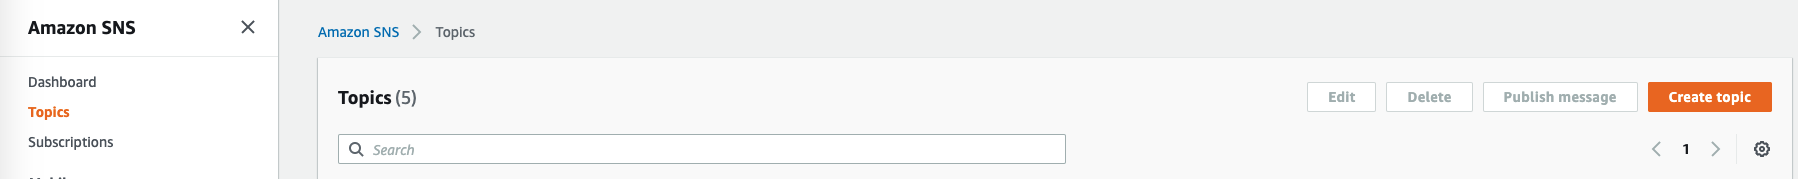
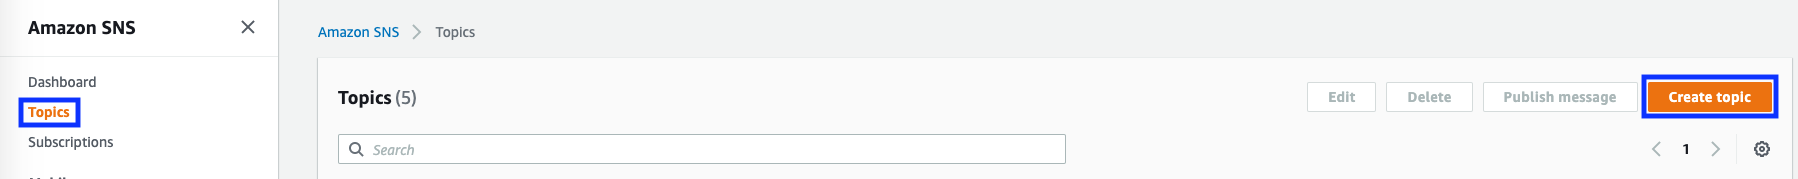
add sns webhook setting guideline in korean

Changed region(s): [[0.9032, 0.3911, 0.9967, 0.6704], [0.0, 0.5307, 0.0623, 0.7263]]

diff --git a/content/ko/docs/guides/alert_manager/webhook_settings/aws_sns_webhook.md b/content/ko/docs/guides/alert_manager/webhook_settings/aws_sns_webhook.md
@@ -7,52 +7,188 @@ description: >
     Set up a Topic and Subscription at AWS SNS Service
 ---
 
-## Set up a SNS topic and Subscription
-To ****Connect **SpaceONE's Alert Manager,** Set up AWS SNS's Topic and its Subscriptions <br>
-Please, Set SNS Topic and its Subscription for following Steps
-* [Set up a Topic on AWS SNS](#set-up-a-topic-on-aws-sns)
-* [Set up a Subscription on AWS SNS](#set-up-a-subscription-on-aws-sns)
+## 개요
+AWS SNS(Simple Notification Service)는 마이크로서비스 및 서버리스 애플리케이션을 위한 Pub/Sub 메시징 서비스입니다.
+SpaceONE은 **AWS SNS webhook Plugin**을 사용하여 AWS SNS 구독을 통해 전달되는 이벤트를 수신합니다.
 
-## Set up a Topic on AWS SNS
+이때, 발생할 수 있는 이벤트 크게 **PHD(PersonalHealthDashboard) event**와 **Custom Event**로 나눌 수 있습니다.
+PHD event는 AWS Health에서 발생하는 데이터를 의미하고 
+Custom Event는 AWS Health 이외 AWS SNS webhook Plugin에서 제공하는 서비스를 의미합니다.
+제공하는 서비스에 대한 자세한 목록은 [Supported Alert Services](https://github.com/spaceone-dev/plugin-aws-sns-mon-webhook#supported-alert-services) 에서 확인할 수 있습니다.
 
-### Step 1
-Log in AWS Console &gt; SNS &gt; Topics
+![](/ko/docs/guides/alert_manager/webhook_settings/aws_sns_webhook_img/aws_sns_webhook_img_24.png)
+그림에서 볼 수 있듯이 PHD event가 발생했을 때, AWS EventBridge > AWS SNS > AWS SNS Webhook 순으로 데이터가 전달됩니다.
+서로 의존 관계이기 때문에 설정은 **역순**으로 진행합니다.
+
+따라서 **PHD event**를 받기 위해 PHD pipeline 구축은 다음과 같습니다.
+
+[1) AWS SNS Webhook Plugin 설정](#1\)-AWS-SNS-Webhook-Plugin-설정)  
+[2) AWS SNS의 Topic과 Subcription 설정](#2\)-AWS-SNS의-Topic과-Subscription-설정)  
+[3) AWS EventBridge 설정](#3\)-AWS-EventBridge-설정)   
+
+만약 **Custom event**를 받기 위해 AWS SNS Webhook를 설정해야 한다면 공통적인 부분에 속하는   
+[2) AWS SNS의 Topic과 Subscription 설정](#2\)-AWS-SNS의-Topic과-Subscription-설정)을 참고하면 됩니다. 
+
+
+## 1) AWS SNS Webhook Plugin 설정
+SpaceONE console을 통해 PHD 알림을 받을 프로젝트에 AWS SNS Webhook Plugin을 설정합니다.
+
+### step 1
+`project`를 선택 > `Alert` 클릭 > `Activate Alert` 클릭  
+![](/ko/docs/guides/alert_manager/webhook_settings/aws_sns_webhook_img/aws_sns_webhook_img_18.png)
+
+### step 2
+`Webhook` 클릭 > `+ Add` 클릭
+![](/ko/docs/guides/alert_manager/webhook_settings/aws_sns_webhook_img/aws_sns_webhook_img_19.png)
+
+### step 3
+`Name` 설정 > `AWS SNS Webhook` 클릭 > `confirm` 클릭
+![](/ko/docs/guides/alert_manager/webhook_settings/aws_sns_webhook_img/aws_sns_webhook_img_20.png)
+
+### step 4
+생성된 AWS SNS Webhook을 확인하고 `Webhook URL`을 복사합니다.  
+복사된 URL은 [2) AWS SNS의 Topic과 Subcription 설정](#2\)-AWS-SNS의-Topic과-Subscription-설정)에서 subscription 타겟을 설정하는데 사용됩니다.
+![](/ko/docs/guides/alert_manager/webhook_settings/aws_sns_webhook_img/aws_sns_webhook_img_18.png)
+
+
+## 2) AWS SNS의 Topic과 Subscription 설정
+
+### 개요
+AWS SNS(Simple Notification Service)는 Publisher에서 subscriber로 메세지를 전송하는 관리형 서비스입니다. Publisher는 logical access point, communication channel인 Topic에 메세지를 보내 subscriber와 비동기적으로 통신합니다.  
+
+Endpoint 타입으로 HTTPS 프로토콜을 사용해 SpaceONE에 AWS SNS Webhook Plugin에 PHD event를 전달합니다.
+HTTPS에 적용된 URL은 AWS SNS webhook Plugin을 생성 후 만들어지는 Webhook URL입니다.
+* [AWS SNS Topic 설정](#Topic-설정)
+* [AWS SNS Subscription 설정](#Subscription-설정)
+
+### Topic 설정
+
+#### Step 1
+`AWS Console` 로그인 > `SNS` 검색 > `Simple Notification Service` 클릭
 ![](/ko/docs/guides/alert_manager/webhook_settings/aws_sns_webhook_img/aws_sns_webhook_img_01.png)
 
-### Step 2 
-Click `Create topic`  **Button**
+#### Step 2
+`Topics` 클릭 > `Create topic` 클릭
 ![](/ko/docs/guides/alert_manager/webhook_settings/aws_sns_webhook_img/aws_sns_webhook_img_02.png)
 
-### Step 3
-Select `Standard`**  **options and Give name for new topic as below**
+#### Step 3
+`Standard option` 클릭, `Name`과 `DisplayName` 입력 > `Create topic` 클릭 
 ![](/ko/docs/guides/alert_manager/webhook_settings/aws_sns_webhook_img/aws_sns_webhook_img_03.png)
 
-### Step 4
-Check Topic is created successfully.
+#### Step 4
+Topic이 정상적으로 생성되었는지 확인
 ![](/ko/docs/guides/alert_manager/webhook_settings/aws_sns_webhook_img/aws_sns_webhook_img_04.png)
 
-## Set up a Subscription on AWS SNS
-Once Topic has created, as above. Please, set subscription.
 
-### Step 1 
-Log in AWS Console &gt; SNS &gt; Topics &gt; Select Topic that you would like to set up a subscription and then Click  `Create subscription`
+### Subscription 설정
+
+#### Step1
+Topic을 생성한 이후 `Create subscription` 클릭
 ![](/ko/docs/guides/alert_manager/webhook_settings/aws_sns_webhook_img/aws_sns_webhook_img_05.png)
 
-### Step 2
-Type or select each required fields and Click `Create subscription` **button to** **Create subscription**
-* Protocol : HTTPS
-* Endpoint : Webhook URL that you create from [**SpaceONE**](#webhook-list)\*\*\*\*
-![](/ko/docs/guides/alert_manager/webhook_settings/aws_sns_webhook_img/aws_sns_webhook_img_06.png)
-
-### Step 3  
-Check created subscription under  AWS Console &gt; SNS &gt; Topics &gt; AWS-SNS \(Created Topic\)
+#### Step 2 
+Details 내부 생성한 `Topic ARN` 선택, `Protocol`은 `HTTPS`로 설정,  
+`Endpoint`는 [1) AWS SNS Webhook Plugin 설정](#1\)-AWS-SNS-Webhook-Plugin-설정)에서 획득한 `Webhook URL`을 입력   
+ 이후 `Create subscription` 클릭 
 ![](/ko/docs/guides/alert_manager/webhook_settings/aws_sns_webhook_img/aws_sns_webhook_img_07.png)
 
-### Step 4
-Check Status has changed after create a new subscription from **`Pending confirmation`** to  **`Confirmed`** as below
-![](/ko/docs/guides/alert_manager/webhook_settings/aws_sns_webhook_img/aws_sns_webhook_img_08.png)
-![](/ko/docs/guides/alert_manager/webhook_settings/aws_sns_webhook_img/aws_sns_webhook_img_09.png)
-
-### Step 5
-You are ready to get SNS message through Webhook once status updated as `Confirmed`
+#### Step 3
+subscription이 정상적으로 생성되고 AWS SNS webhook plugin과 정상적으로 연결되었다면 `status`가 `confirmed`된 것을 확인
 ![](/ko/docs/guides/alert_manager/webhook_settings/aws_sns_webhook_img/aws_sns_webhook_img_10.png)
+
+다음으로 AWS EventBridge 설정을 통해 생성한 Topic으로 PHD event를 받을 수 있도록 설정합니다.
+
+
+## 3) AWS EventBridge 설정
+
+### 개요
+Health event가 발생하면 AWS EventBridge로 Health event를 수신할 수 있습니다.
+AWS EventBridge 설정시 주의할점은 Health events를 받으려는 각 region마다 EventRule을 설정 해야합니다. 그리고 Global health에 대한 Health event를 받기 위해서는 us-east-1(US East(N. Virginia))에 EventBridge를 설정 해야합니다.  
+또한, 각 region 마다 생성된 EventBridge를 us-east-1(N. Virginia)로 라우팅 해주기 위해 EventBus를 사용합니다. 이렇게 설정함으로써 AWS EventBridge의 EventRule N개, AWS SNS 1개 구조를 통해 다수의 region의 Health events를 수신할 수 있습니다.  
+
+
+>다음의 예시를 들 수 있습니다.  
+>
+>Health event가 발생하였고 구축된 resource에 영향이 있는지 Health event를 받고 싶고, GLOBAL Health event를 받고 싶은 상황이라고 가정할 수 있습니다. 
+>- Seoul region에 EC2를 운영
+>- Sydney region에 S3를 운영
+>
+>이런 경우, 아래와 같이 3개의 EventRule 생성을 통해 원하는 요구조건을 충족할 수 있습니다.   
+>EventRule(us-east-1)  
+>EventRule(ap-northeast-2)  
+>EventRule(ap-southeast-2)
+>
+>이때, EventRule(ap-northeast-2)의 target은 SNS가 아닌 us-east-1 EventBus의 default입니다.
+>EventRule(ap-southeast-2)의 target은 SNS가 아닌 us-east-1 EventBus의 default입니다.
+>
+>다음의 순서로 설정을 진행합니다.
+>1) EventRule(us-east-1) 생성 후 AWS SNS를 target으로 설정
+>2) EventRule(ap-northeast-2) 생성 후 us-east-1 EventBus의 default를 target으로 설정
+>3) EventRule(ap-southeast-2) 생성 후 us-east-1 EventBus의 default를 target으로 설정
+>
+>실제 서울의 EC2에 대해 Health events가 발생하면 EventRule(ap-northeast-2)에서 최초 수신 후 us-east-1 EventBus에 전달이 되며 EventRule(us-east-1)에서 수신하게 됩니다. 이후 설정된 AWS SNS로 event가 전달되며 최종적으로 AWS SNS Webhoook에 전달이되어 SpaceONE에서 Alert이 생성됩니다.
+
+이제, 단계별로 EventBridge 설정방법을 알아보도록 하겠습니다.
+
+
+### 1. GLOBAL EventBridge 설정
+
+### step 1
+AWS console 로그인 > `EventBridge` 검색 > Events > `Rules` 클릭
+![](/ko/docs/guides/alert_manager/webhook_settings/aws_sns_webhook_img/aws_sns_webhook_img_11.png)
+
+
+### step 2
+`Create Rule` 클릭
+![](/ko/docs/guides/alert_manager/webhook_settings/aws_sns_webhook_img/aws_sns_webhook_img_12.png)
+
+### step 3
+`create Rule`은 세부적으로 5단계 step 설정이 필요합니다.
+- step 3-1 : Define rule detail  
+`Name`과 `Description` 설정
+![](/ko/docs/guides/alert_manager/webhook_settings/aws_sns_webhook_img/aws_sns_webhook_img_13.png)
+- step 3-2 : Build event pattern  
+EventBridge가 생성되는 region에서 발생할 수 있는 `Event pattern` 설정
+![](/ko/docs/guides/alert_manager/webhook_settings/aws_sns_webhook_img/aws_sns_webhook_img_14.png)
+![](/ko/docs/guides/alert_manager/webhook_settings/aws_sns_webhook_img/aws_sns_webhook_img_15.png)
+- step 3-3 : Select target  
+[1) AWS SNS의 Topic과 Subscription 설정](#1\)-AWS-SNS의-Topic과-Subscription-설정)에서 생성한 Topic을 `target`으로 설정 
+![](/ko/docs/guides/alert_manager/webhook_settings/aws_sns_webhook_img/aws_sns_webhook_img_16.png)
+- step 3-4 / step 3-5  
+AWS console의 step4를 통해 tag정보를 기입할 수 있으며 step5를 통해 설정 정보를 리뷰 확인 후 `create rule` 클릭  
+생성된 Rule은 `Events` > `rules`에서 확인
+![](/ko/docs/guides/alert_manager/webhook_settings/aws_sns_webhook_img/aws_sns_webhook_img_17.png)
+
+### 2. GLOBAL(us-east-1)이 아닌 EventBridge 설정
+GLOBAL EventBridge 설정의 step1, step2 그리고 step3-2까지 동일합니다.
+
+### step 1
+AWS console 로그인 > `EventBridge` 검색 > Events > `Rules` 클릭
+![](/ko/docs/guides/alert_manager/webhook_settings/aws_sns_webhook_img/aws_sns_webhook_img_11.png)
+
+
+### step 2
+`Create Rule` 클릭
+![](/ko/docs/guides/alert_manager/webhook_settings/aws_sns_webhook_img/aws_sns_webhook_img_12.png)
+### step 3
+`create Rule`은 세부적으로 5단계 step 설정이 필요합니다.
+- step 3-1 : Define rule detail  
+`Name`과 `Description` 설정
+![](/ko/docs/guides/alert_manager/webhook_settings/aws_sns_webhook_img/aws_sns_webhook_img_13.png)
+- step 3-2 : Build event pattern  
+EventBridge가 생성되는 region에서 발생할 수 있는 `Event pattern` 설정
+![](/ko/docs/guides/alert_manager/webhook_settings/aws_sns_webhook_img/aws_sns_webhook_img_14.png)
+![](/ko/docs/guides/alert_manager/webhook_settings/aws_sns_webhook_img/aws_sns_webhook_img_15.png)
+- step 3-3 : Select target  
+`EventBridge event bus` 클릭 > `Event bus in a different account or Region` 클릭 >
+`Event bus as target` 설정 > `create a new role for this specific resource` 클릭  
+이때, `Event bus as target`에 들어가는 arn은 us-east-1의 default EventBus입니다.(아래 그림 참조)
+![](/ko/docs/guides/alert_manager/webhook_settings/aws_sns_webhook_img/aws_sns_webhook_img_22.png)
+![](/ko/docs/guides/alert_manager/webhook_settings/aws_sns_webhook_img/aws_sns_webhook_img_23.png)
+- step 3-4 / step 3-5  
+AWS console의 step4를 통해 tag정보를 기입할 수 있으며 step5를 통해 설정 정보를 리뷰 확인 후 `create rule` 클릭  
+생성된 Rule은 `Events` > `rules`에서 확인
+![](/ko/docs/guides/alert_manager/webhook_settings/aws_sns_webhook_img/aws_sns_webhook_img_17.png)  
+
+
+AWS SNS Webhook, AWS SNS 그리고 AWS EventBridge 설정이 모두 끝났다면 SpaceONE에서 PHD Event에 대한 Alert을 받을 수 있습니다.
